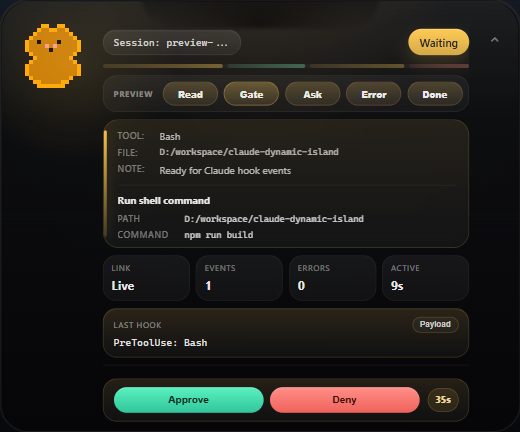
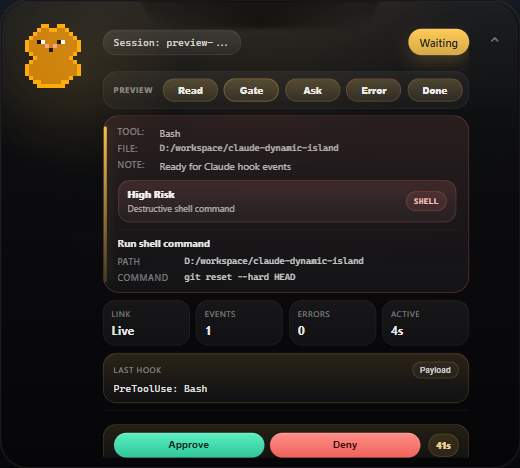
Add approval risk lens

diff --git a/src/status/status-panel.ts b/src/status/status-panel.ts
@@ -9,6 +9,7 @@ import { invoke } from "@tauri-apps/api/core";
 import { open } from "@tauri-apps/plugin-shell";
 import { isTauri } from "../utils/env";
 import {
+  assessApprovalRisk,
   createHistorySummary,
   formatDuration,
   formatRelativeTime,
@@ -61,6 +62,10 @@ export class StatusPanel {
   private readonly elLastHookEvent: HTMLElement | null;
   private readonly elApprovalTimer: HTMLElement | null;
   private readonly elApprovalButtons: HTMLElement | null;
+  private readonly elApprovalRiskCard: HTMLElement | null;
+  private readonly elApprovalRiskLabel: HTMLElement | null;
+  private readonly elApprovalRiskReason: HTMLElement | null;
+  private readonly elApprovalRiskSignal: HTMLElement | null;
   private readonly elBtnApprove: HTMLButtonElement | null;
   private readonly elBtnDeny: HTMLButtonElement | null;
   private readonly elHistoryList: HTMLElement | null;
@@ -92,6 +97,10 @@ export class StatusPanel {
     this.elLastHookEvent = document.getElementById("last-hook-event");
     this.elApprovalTimer = document.getElementById("approval-timer");
     this.elApprovalButtons = document.getElementById("approval-buttons");
+    this.elApprovalRiskCard = document.getElementById("approval-risk-card");
+    this.elApprovalRiskLabel = document.getElementById("approval-risk-label");
+    this.elApprovalRiskReason = document.getElementById("approval-risk-reason");
+    this.elApprovalRiskSignal = document.getElementById("approval-risk-signal");
     this.elBtnApprove = document.getElementById("btn-approve") as HTMLButtonElement | null;
     this.elBtnDeny = document.getElementById("btn-deny") as HTMLButtonElement | null;
     this.elHistoryList = document.getElementById("history-list");
@@ -926,6 +935,7 @@ export class StatusPanel {
       timestamp: Date.now(),
     };
     document.body.dataset.approval = toolName || "true";
+    this.renderApprovalRisk(toolName, toolInput);
     this.isResolvingApproval = false;
     this.setApprovalButtonsDisabled(false);
 
@@ -951,6 +961,8 @@ export class StatusPanel {
   private hideApproval(): void {
     this.currentApproval = null;
     delete document.body.dataset.approval;
+    delete document.body.dataset.approvalRisk;
+    this.hideApprovalRisk();
     if (this.elApprovalButtons) {
       this.elApprovalButtons.classList.remove("visible");
     }
@@ -965,6 +977,32 @@ export class StatusPanel {
   private updateApprovalTimer(): void {
     if (this.elApprovalTimer) {
       this.elApprovalTimer.textContent = `${this.approvalTimeLeft}s`;
+    }
+  }
+
+  private renderApprovalRisk(toolName: string, toolInput: Record<string, unknown>): void {
+    const risk = assessApprovalRisk(toolName, toolInput);
+    document.body.dataset.approvalRisk = risk.level;
+
+    if (this.elApprovalRiskCard) {
+      this.elApprovalRiskCard.hidden = false;
+      this.elApprovalRiskCard.dataset.risk = risk.level;
+    }
+    if (this.elApprovalRiskLabel) {
+      this.elApprovalRiskLabel.textContent = risk.label;
+    }
+    if (this.elApprovalRiskReason) {
+      this.elApprovalRiskReason.textContent = risk.reason;
+    }
+    if (this.elApprovalRiskSignal) {
+      this.elApprovalRiskSignal.textContent = risk.signal;
+    }
+  }
+
+  private hideApprovalRisk(): void {
+    if (this.elApprovalRiskCard) {
+      this.elApprovalRiskCard.hidden = true;
+      delete this.elApprovalRiskCard.dataset.risk;
     }
   }
 

diff --git a/src/main.css b/src/main.css
@@ -12,7 +12,7 @@
   --island-radius: 26px;
   --island-radius-expanded: 28px;
   --island-collapsed-height: 52px;
-  --island-expanded-height: 432px;
+  --island-expanded-height: 468px;
   --island-width: 364px;
   --island-width-expanded: 520px;
   --text-primary: rgba(255, 255, 255, 0.96);
@@ -719,12 +719,20 @@ body[data-tauri] .island-action-button {
   backdrop-filter: blur(14px);
   position: relative;
   overflow: hidden;
+  flex-shrink: 0;
 }
 
 body[data-approval] .status-details {
   border-color: rgba(255, 200, 77, 0.16);
   background:
     linear-gradient(180deg, rgba(255, 200, 77, 0.08), rgba(255, 255, 255, 0.02)),
+    rgba(255, 255, 255, 0.018);
+}
+
+body[data-approval-risk="danger"] .status-details {
+  border-color: rgba(255, 123, 115, 0.24);
+  background:
+    linear-gradient(180deg, rgba(255, 123, 115, 0.09), rgba(255, 255, 255, 0.018)),
     rgba(255, 255, 255, 0.018);
 }
 
@@ -874,11 +882,90 @@ body[data-approval] .status-details {
   font-size: 9px;
 }
 
+.approval-risk-card {
+  display: flex;
+  align-items: center;
+  justify-content: space-between;
+  gap: 10px;
+  margin-top: 7px;
+  padding: 7px 9px;
+  border-radius: 12px;
+  border: 1px solid rgba(255, 200, 77, 0.16);
+  background:
+    linear-gradient(180deg, rgba(255, 200, 77, 0.1), rgba(255, 255, 255, 0.018)),
+    rgba(255, 255, 255, 0.018);
+}
+
+.approval-risk-card[hidden] {
+  display: none;
+}
+
+.approval-risk-card[data-risk="safe"] {
+  border-color: rgba(126, 242, 184, 0.16);
+  background:
+    linear-gradient(180deg, rgba(126, 242, 184, 0.08), rgba(255, 255, 255, 0.018)),
+    rgba(255, 255, 255, 0.018);
+}
+
+.approval-risk-card[data-risk="danger"] {
+  border-color: rgba(255, 123, 115, 0.22);
+  background:
+    linear-gradient(180deg, rgba(255, 123, 115, 0.12), rgba(255, 255, 255, 0.018)),
+    rgba(255, 255, 255, 0.018);
+}
+
+.approval-risk-copy {
+  display: grid;
+  gap: 2px;
+  min-width: 0;
+}
+
+.approval-risk-label {
+  color: rgba(255, 255, 255, 0.94);
+  font-size: 10px;
+  font-weight: 800;
+}
+
+.approval-risk-reason {
+  min-width: 0;
+  color: rgba(255, 255, 255, 0.58);
+  font-size: 9px;
+  line-height: 1.3;
+  overflow: hidden;
+  text-overflow: ellipsis;
+  white-space: nowrap;
+}
+
+.approval-risk-signal {
+  flex-shrink: 0;
+  color: rgba(255, 232, 176, 0.95);
+  font-family: "Cascadia Code", "Fira Code", monospace;
+  font-size: 8px;
+  font-weight: 900;
+  letter-spacing: 0.04em;
+  padding: 5px 7px;
+  border-radius: 999px;
+  border: 1px solid rgba(255, 200, 77, 0.18);
+  background: rgba(255, 200, 77, 0.1);
+}
+
+.approval-risk-card[data-risk="safe"] .approval-risk-signal {
+  color: rgba(179, 255, 218, 0.95);
+  border-color: rgba(126, 242, 184, 0.16);
+  background: rgba(126, 242, 184, 0.08);
+}
+
+.approval-risk-card[data-risk="danger"] .approval-risk-signal {
+  color: rgba(255, 194, 190, 0.98);
+  border-color: rgba(255, 123, 115, 0.22);
+  background: rgba(255, 123, 115, 0.1);
+}
+
 .operation-insight {
   display: grid;
-  gap: 6px;
-  margin-top: 8px;
-  padding-top: 8px;
+  gap: 5px;
+  margin-top: 7px;
+  padding-top: 7px;
   border-top: 1px solid rgba(255, 255, 255, 0.055);
 }
 
@@ -927,7 +1014,7 @@ body[data-approval] .status-details {
 .operation-detail-list {
   display: grid;
   gap: 4px;
-  max-height: 66px;
+  max-height: 72px;
   overflow-y: auto;
   padding-right: 3px;
 }

diff --git a/src/status/status-format.ts b/src/status/status-format.ts
@@ -1,4 +1,5 @@
 export type ActivityTone = "neutral" | "info" | "success" | "danger" | "waiting";
+export type ApprovalRiskLevel = "safe" | "review" | "danger";
 
 export interface HistorySummary {
   summary: string;
@@ -6,7 +7,18 @@ export interface HistorySummary {
   tone: ActivityTone;
 }
 
+export interface ApprovalRisk {
+  level: ApprovalRiskLevel;
+  label: string;
+  signal: string;
+  reason: string;
+}
+
 const PATH_KEYS = ["file_path", "path", "notebook_path", "cwd"];
+const READ_ONLY_TOOLS = new Set(["Read", "Grep", "Glob"]);
+const WRITE_TOOLS = new Set(["Write", "Edit", "MultiEdit"]);
+const DESTRUCTIVE_COMMAND_PATTERN =
+  /\b(rm\s+-rf|remove-item|del\s+\/[fsq]|rmdir\s+\/s|git\s+reset\s+--hard|git\s+clean\s+-fd|format|mkfs|shutdown|npm\s+publish|cargo\s+publish)\b/i;
 
 export function getPrimaryPath(toolInput: Record<string, unknown>): string | null {
   for (const key of PATH_KEYS) {
@@ -108,6 +120,64 @@ export function getActivityTone(toolName: string, isError: boolean): ActivityTon
   }
 
   return "neutral";
+}
+
+export function assessApprovalRisk(
+  toolName: string,
+  toolInput: Record<string, unknown>
+): ApprovalRisk {
+  if (READ_ONLY_TOOLS.has(toolName)) {
+    return {
+      level: "safe",
+      label: "Low Risk",
+      signal: "READ",
+      reason: "Inspect-only tool",
+    };
+  }
+
+  if (toolName === "Bash") {
+    const command = typeof toolInput.command === "string" ? toolInput.command : "";
+    if (DESTRUCTIVE_COMMAND_PATTERN.test(command)) {
+      return {
+        level: "danger",
+        label: "High Risk",
+        signal: "SHELL",
+        reason: "Destructive shell command",
+      };
+    }
+
+    return {
+      level: "review",
+      label: "Review",
+      signal: "SHELL",
+      reason: "Shell command requires attention",
+    };
+  }
+
+  if (WRITE_TOOLS.has(toolName)) {
+    return {
+      level: "review",
+      label: "Review",
+      signal: "WRITE",
+      reason: "Will modify workspace files",
+    };
+  }
+
+  if (toolName === "AskUserQuestion") {
+    return {
+      level: "safe",
+      label: "Low Risk",
+      signal: "INPUT",
+      reason: "Human input request",
+    };
+  }
+
+  return {
+    level: "review",
+    label: "Review",
+    signal: "TOOL",
+    reason: "Check tool input before approving",
+  };
 }
 
 function compactPath(path: string): string {

diff --git a/index.html b/index.html
@@ -89,6 +89,13 @@
                 <span class="detail-label">Note:</span>
                 <span class="detail-value" id="current-note">-</span>
               </div>
+              <div class="approval-risk-card" id="approval-risk-card" hidden>
+                <div class="approval-risk-copy">
+                  <span class="approval-risk-label" id="approval-risk-label">Review</span>
+                  <span class="approval-risk-reason" id="approval-risk-reason">Check tool input before approving</span>
+                </div>
+                <span class="approval-risk-signal" id="approval-risk-signal">TOOL</span>
+              </div>
               <div class="operation-insight" id="operation-insight" hidden>
                 <div class="operation-insight-header">
                   <span class="operation-summary" id="operation-summary">Operation details</span>

diff --git a/src/preview/demo-controls.ts b/src/preview/demo-controls.ts
@@ -33,7 +33,7 @@ export function initPreviewControls(eventBus: EventBus): void {
       type: "pre-tool-use",
       toolName: "Bash",
       toolInput: {
-        command: "npm run build",
+        command: "git reset --hard HEAD",
         cwd: "D:/workspace/claude-dynamic-island",
       },
       approvalId: createPreviewId("approval"),

diff --git a/src-tauri/src/lib.rs b/src-tauri/src/lib.rs
@@ -18,7 +18,7 @@ use tokio::sync::Mutex;
 const COLLAPSED_WIDTH: f64 = 364.0;
 const COLLAPSED_HEIGHT: f64 = 52.0;
 const EXPANDED_WIDTH: f64 = 520.0;
-const EXPANDED_HEIGHT: f64 = 432.0;
+const EXPANDED_HEIGHT: f64 = 468.0;
 const COLLAPSED_RADIUS: i32 = 26;
 const EXPANDED_RADIUS: i32 = 28;
 const TOP_MARGIN: f64 = 0.0;

diff --git a/README.md b/README.md
@@ -15,6 +15,7 @@ Claude Code is powerful, but its hook events usually live in the terminal. This 
 - in-island approvals and selections
 - browser preview controls for local UI smoke tests and screenshots
 - activity timeline with tool type, elapsed time, and approval state
+- approval risk lens that highlights read-only, write, shell, and destructive commands
 - tray controls with show and exit actions
 - startup hook self-check
 - portable EXE and NSIS installer builds
@@ -42,6 +43,7 @@ Claude Code is powerful, but its hook events usually live in the terminal. This 
 - In-island `AskUserQuestion` choices
 - Browser preview controls for Read, approval, question, error, and completion states
 - Compact activity history with tool-aware badges and elapsed session timing
+- Approval risk classification for inspect-only tools, file writes, shell commands, and destructive shell patterns
 - Tray menu with `Show` and `Exit`
 - Startup hook diagnostics so the app can surface configuration issues early
 - Portable release folder with `_up_` resources
